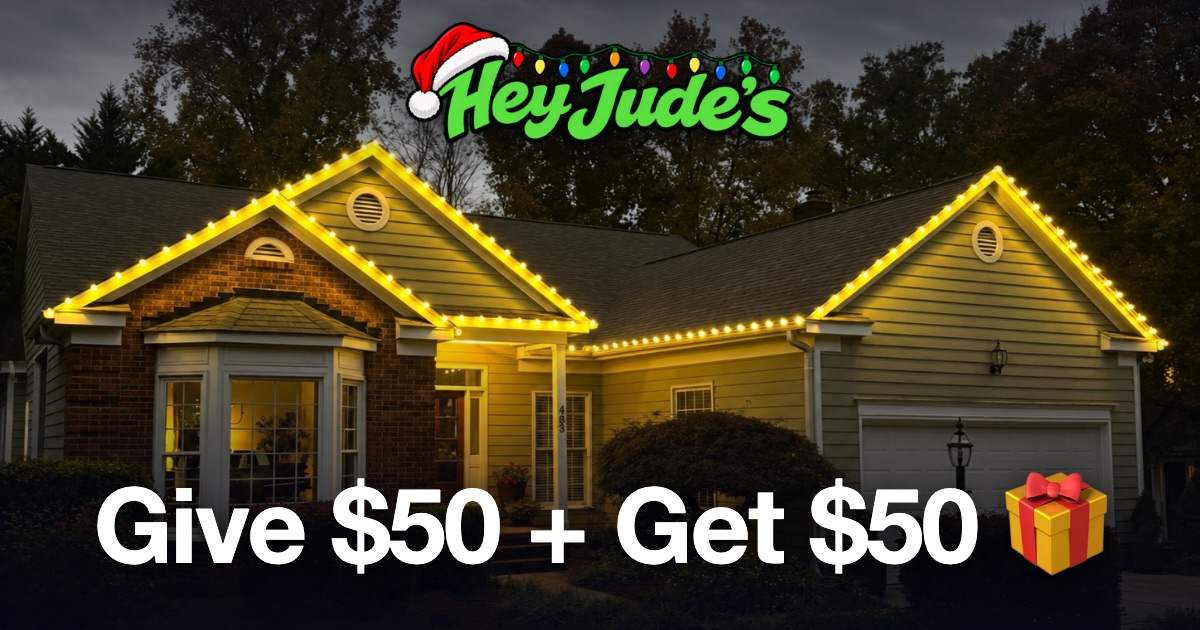
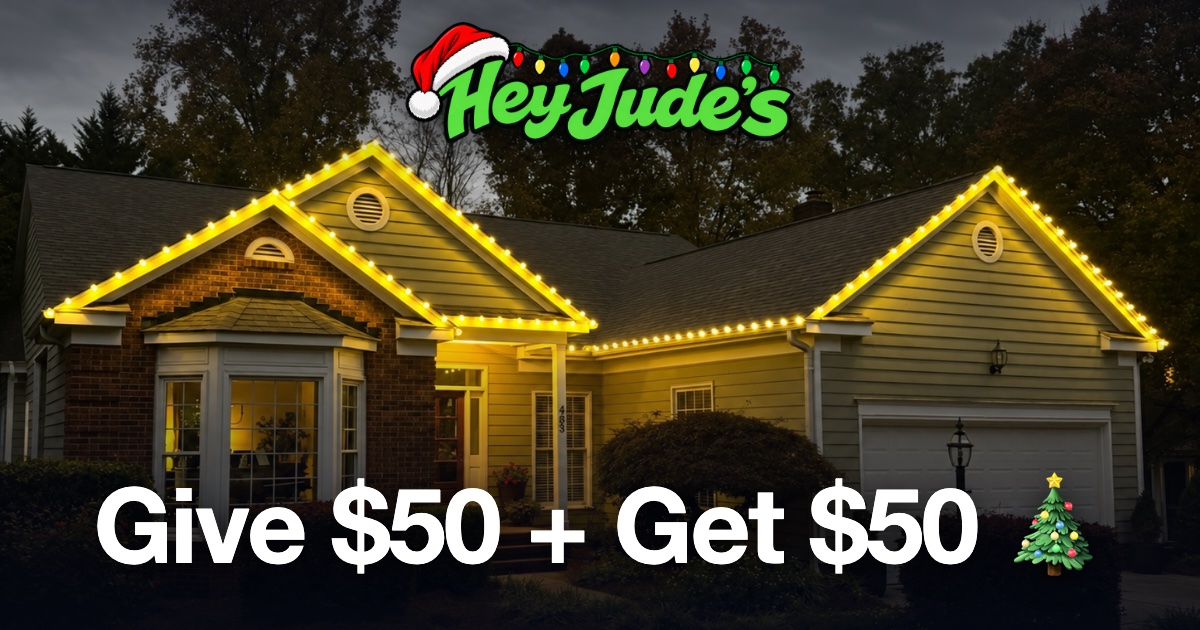
Referral page: fix gift animation on real sends, scroll up + dim + shake sequence, iPhone-friendly cha-ching, 🎄 back on preview image

Changed region(s): [[0.8325, 0.754, 0.925, 0.9349]]

diff --git a/src/pages/LightsRefer.jsx b/src/pages/LightsRefer.jsx
@@ -32,30 +32,34 @@ function Float({ label, value, onChange, className = '', inputClass = '', ...res
   );
 }
 
-// Cha-ching! A cash-register sound made in the browser (no file). The AudioContext is created on the
-// Send tap (iPhones only allow sound that starts from a tap), then played when the send succeeds.
-let audioCtx = null;
-const unlockSound = () => {
-  try { audioCtx = audioCtx || new (window.AudioContext || window.webkitAudioContext)(); if (audioCtx.state === 'suspended') audioCtx.resume(); } catch { audioCtx = null; }
+// Cha-ching! A cash-register sound built in the browser as a tiny WAV (no file to load).
+// Played through an <audio> element: iPhones allow it once it's been "unlocked" by a tap.
+const makeChing = () => {
+  const rate = 22050; const n = Math.floor(rate * 1.1); const d = new Float32Array(n);
+  for (let i = 0; i < n; i++) {
+    const t = i / rate; let v = 0;
+    if (t < 0.06) v += (Math.random() * 2 - 1) * (1 - t / 0.06) * 0.45; // "cha" clack
+    [[2637, 0.28, 0.08], [3520, 0.24, 0.17], [5274, 0.1, 0.17]].forEach(([f, a, at]) => { // "ching" bells
+      if (t >= at) v += Math.sin(2 * Math.PI * f * (t - at)) * a * Math.exp(-(t - at) * 5.5);
+    });
+    d[i] = Math.max(-1, Math.min(1, v));
+  }
+  const buf = new ArrayBuffer(44 + n * 2); const w = new DataView(buf);
+  const str = (o, x) => { for (let i = 0; i < x.length; i++) w.setUint8(o + i, x.charCodeAt(i)); };
+  str(0, 'RIFF'); w.setUint32(4, 36 + n * 2, true); str(8, 'WAVEfmt '); w.setUint32(16, 16, true); w.setUint16(20, 1, true); w.setUint16(22, 1, true);
+  w.setUint32(24, rate, true); w.setUint32(28, rate * 2, true); w.setUint16(32, 2, true); w.setUint16(34, 16, true); str(36, 'data'); w.setUint32(40, n * 2, true);
+  for (let i = 0; i < n; i++) w.setInt16(44 + i * 2, d[i] * 0x7fff, true);
+  return URL.createObjectURL(new Blob([buf], { type: 'audio/wav' }));
 };
-const chaChing = () => {
-  const ctx = audioCtx; if (!ctx) return;
-  const t0 = ctx.currentTime + 0.02;
-  // "cha": a short clack of noise
-  const len = Math.floor(ctx.sampleRate * 0.06); const buf = ctx.createBuffer(1, len, ctx.sampleRate); const d = buf.getChannelData(0);
-  for (let i = 0; i < len; i++) d[i] = (Math.random() * 2 - 1) * (1 - i / len);
-  const noise = ctx.createBufferSource(); noise.buffer = buf;
-  const hp = ctx.createBiquadFilter(); hp.type = 'highpass'; hp.frequency.value = 1800;
-  const ng = ctx.createGain(); ng.gain.value = 0.35;
-  noise.connect(hp).connect(ng).connect(ctx.destination); noise.start(t0);
-  // "ching": two bright bell tones with a ringing decay
-  [[2637, 0.12, 0], [3520, 0.1, 0.09], [5274, 0.05, 0.09]].forEach(([f, vol, delay]) => {
-    const o = ctx.createOscillator(); o.type = 'sine'; o.frequency.value = f;
-    const g = ctx.createGain(); const t = t0 + 0.08 + delay;
-    g.gain.setValueAtTime(0, t); g.gain.linearRampToValueAtTime(vol, t + 0.005); g.gain.exponentialRampToValueAtTime(0.0001, t + 0.9);
-    o.connect(g).connect(ctx.destination); o.start(t); o.stop(t + 1);
-  });
+let ching = null;
+const unlockSound = () => { // on the tap itself
+  try {
+    if (navigator.audioSession) navigator.audioSession.type = 'playback'; // iOS: play even on silent-ish setups
+    if (!ching) { ching = new Audio(makeChing()); ching.preload = 'auto'; }
+    ching.muted = true; const p = ching.play(); if (p) p.then(() => { ching.pause(); ching.currentTime = 0; ching.muted = false; }).catch(() => { ching.muted = false; });
+  } catch { /* no sound is fine */ }
 };
+const chaChing = () => { try { if (ching) { ching.muted = false; ching.currentTime = 0; ching.play().catch(() => {}); } } catch { /* ignore */ } };
 
 export default function LightsRefer() {
   const { token } = useParams();
@@ -74,6 +78,19 @@ export default function LightsRefer() {
       .then(setInfo).catch((e) => setError(e.message));
   }, [url]);
 
+  // After a send: close the keyboard, scroll to the top, then the gift lifts off the Send button.
+  const launch = (name) => {
+    document.activeElement?.blur?.();
+    window.scrollTo(0, 0);
+    setTimeout(() => {
+      const gr = giftRef.current?.getBoundingClientRect();
+      const ok = gr && gr.width && gr.top > 0 && gr.top < window.innerHeight;
+      setFlight({ x: ok ? gr.left + gr.width / 2 : window.innerWidth / 2, y: ok ? gr.top + gr.height / 2 : window.innerHeight - 70, at: Date.now(), name });
+      setTimeout(chaChing, 1500); // cha-ching as the gift takes off
+      setTimeout(() => setFlight(null), 5400);
+    }, 350);
+  };
+
   const submit = async (e) => {
     e.preventDefault();
     unlockSound(); // must happen on the tap itself (iPhone rule)
@@ -83,22 +100,13 @@ export default function LightsRefer() {
     if (!demo && (!first || !last || form.phone.replace(/\D/g, '').length !== 10)) { setError('Add their first name, last name and a 10-digit phone number.'); return; }
     setSending(true); setError('');
     try {
-      if (demo) {
-        const gr = giftRef.current?.getBoundingClientRect();
-        setFlight(gr ? { x: gr.left + gr.width / 2, y: gr.top + gr.height / 2, at: Date.now(), name: first || 'Your friend' } : null);
-        setForm(EMPTY);
-        chaChing(); setTimeout(() => setFlight(null), 5200);
-        return;
-      }
+      if (demo) { setForm(EMPTY); launch(first || 'Your friend'); return; }
       const r = await fetch(url, { method: 'POST', headers: { 'Content-Type': 'application/json' }, body: JSON.stringify({ lead: { name: [first, last].filter(Boolean).join(' '), contactName: first, phone: form.phone, address: form.address, bestTime: form.bestTime, angle: form.angle, money: form.money } }) });
       const d = await r.json();
       if (!r.ok) throw new Error(d.error || 'Didn’t send — try again.');
       setInfo((i) => ({ ...i, submissions: d.submissions, leaderboard: d.leaderboard || i.leaderboard }));
-      const gr = giftRef.current?.getBoundingClientRect();
-      setFlight(gr ? { x: gr.left + gr.width / 2, y: gr.top + gr.height / 2, at: Date.now(), name: first } : null);
-      chaChing();
-      setTimeout(() => setFlight(null), 5200); // overlay plays, then the form is fresh for the next friend
       setForm(EMPTY);
+      launch(first);
     } catch (err) { setError(err.message); } finally { setSending(false); }
   };
 
@@ -250,7 +258,7 @@ export default function LightsRefer() {
         return (
           <div key={flight.at} className="fixed inset-0 z-50 pointer-events-none" style={{ animation: 'hj-out .5s 4.7s forwards' }}>
             {/* screen dims as the gift lifts off */}
-            <div className="absolute inset-0" style={{ background: '#05070d', animation: 'hj-dim .6s forwards' }} />
+            <div className="absolute inset-0" style={{ background: '#05070d', animation: 'hj-dim .45s forwards' }} />
             <style>{`
               @keyframes hj-dim { from { opacity: 0; } to { opacity: .88; } }
               @keyframes hj-out { to { opacity: 0; } }
@@ -267,9 +275,9 @@ export default function LightsRefer() {
               }
               @keyframes hj-pop2 { 0% { transform: translate(0,0) scale(.3); opacity: 1; } 100% { transform: translate(var(--x), var(--y)) rotate(var(--r)) scale(1.1); opacity: 0; } }
             `}</style>
-            <span className="absolute text-3xl" style={{ left: flight.x, top: flight.y, marginLeft: -15, marginTop: -18, '--dx': `${dx}px`, '--dy': `${dy}px`, animation: 'hj-fly 1.9s cubic-bezier(.3,.7,.3,1) forwards' }}>🎁</span>
+            <span className="absolute text-3xl" style={{ left: flight.x, top: flight.y, marginLeft: -15, marginTop: -18, '--dx': `${dx}px`, '--dy': `${dy}px`, animation: 'hj-fly 1.9s .25s cubic-bezier(.3,.7,.3,1) both' }}>🎁</span>
             {/* after it shoots off: the message */}
-            <div className="absolute inset-x-0 text-center px-6" style={{ top: '38%', animation: 'hj-msg .5s 1.9s both' }}>
+            <div className="absolute inset-x-0 text-center px-6" style={{ top: '38%', animation: 'hj-msg .5s 2.15s both' }}>
               <p className="text-5xl font-extrabold text-white">Sent! 🎉</p>
               <p className="mt-2 text-lg text-white/85"><b style={{ color: GREEN }}>{flight.name}</b> gets $50 off their lights</p>
               <p className="mt-3 text-2xl font-extrabold" style={{ color: GREEN }}>Keep it up!</p>
@@ -278,7 +286,7 @@ export default function LightsRefer() {
             {Array.from({ length: 30 }, (_, i) => {
               const a = (i / 30) * Math.PI * 2; const d = 110 + (i % 5) * 30;
               return (
-                <span key={i} className="absolute text-2xl" style={{ left: window.innerWidth / 2, top: window.innerHeight * 0.42, marginLeft: -12, marginTop: -14, '--x': `${Math.cos(a) * d}px`, '--y': `${Math.sin(a) * d}px`, '--r': `${(i % 2 ? 1 : -1) * (140 + i * 7)}deg`, animation: `hj-pop2 1.2s ${1.3 + (i % 3) * 0.04}s ease-out both` }}>
+                <span key={i} className="absolute text-2xl" style={{ left: window.innerWidth / 2, top: window.innerHeight * 0.42, marginLeft: -12, marginTop: -14, '--x': `${Math.cos(a) * d}px`, '--y': `${Math.sin(a) * d}px`, '--r': `${(i % 2 ? 1 : -1) * (140 + i * 7)}deg`, animation: `hj-pop2 1.2s ${1.55 + (i % 3) * 0.04}s ease-out both` }}>
                   {['🎉', '✨', '❄', '🎄', '💵', '⭐'][i % 6]}
                 </span>
               );

diff --git a/api/app-state.js b/api/app-state.js
@@ -286,7 +286,7 @@ export default async function handler(req, res) {
       if (!html) return res.redirect(302, `/index.html`);
       const title = 'Hook a friend up 🎁';
       const desc = 'Give a friend $50 off their Christmas lights — get $50 when Jude sells.';
-      const img = `${origin}/refer-og.jpg`;
+      const img = `${origin}/refer-og.jpg?v=3`; // bump v when the image changes (texts cache it)
       const meta = `<meta property="og:title" content="${title}"><meta property="og:description" content="${desc}"><meta property="og:image" content="${img}"><meta property="og:image:width" content="1200"><meta property="og:image:height" content="630"><meta property="og:type" content="website"><meta name="twitter:card" content="summary_large_image"><meta name="twitter:image" content="${img}"><meta name="description" content="${desc}">`;
       html = html.replace(/<title>[^<]*<\/title>/, `<title>${title}</title>${meta}`);
       res.setHeader('Content-Type', 'text/html; charset=utf-8');
